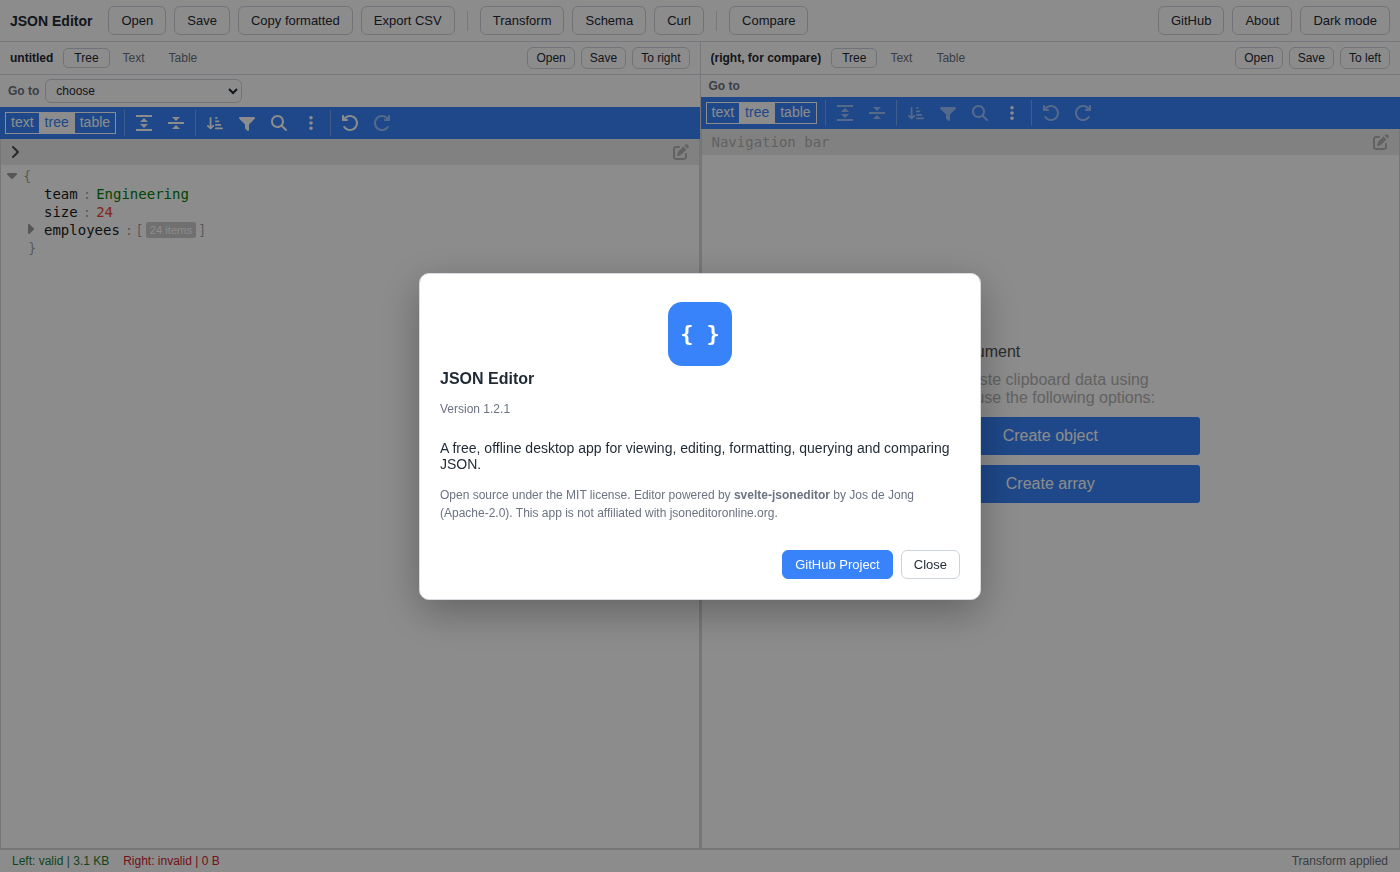
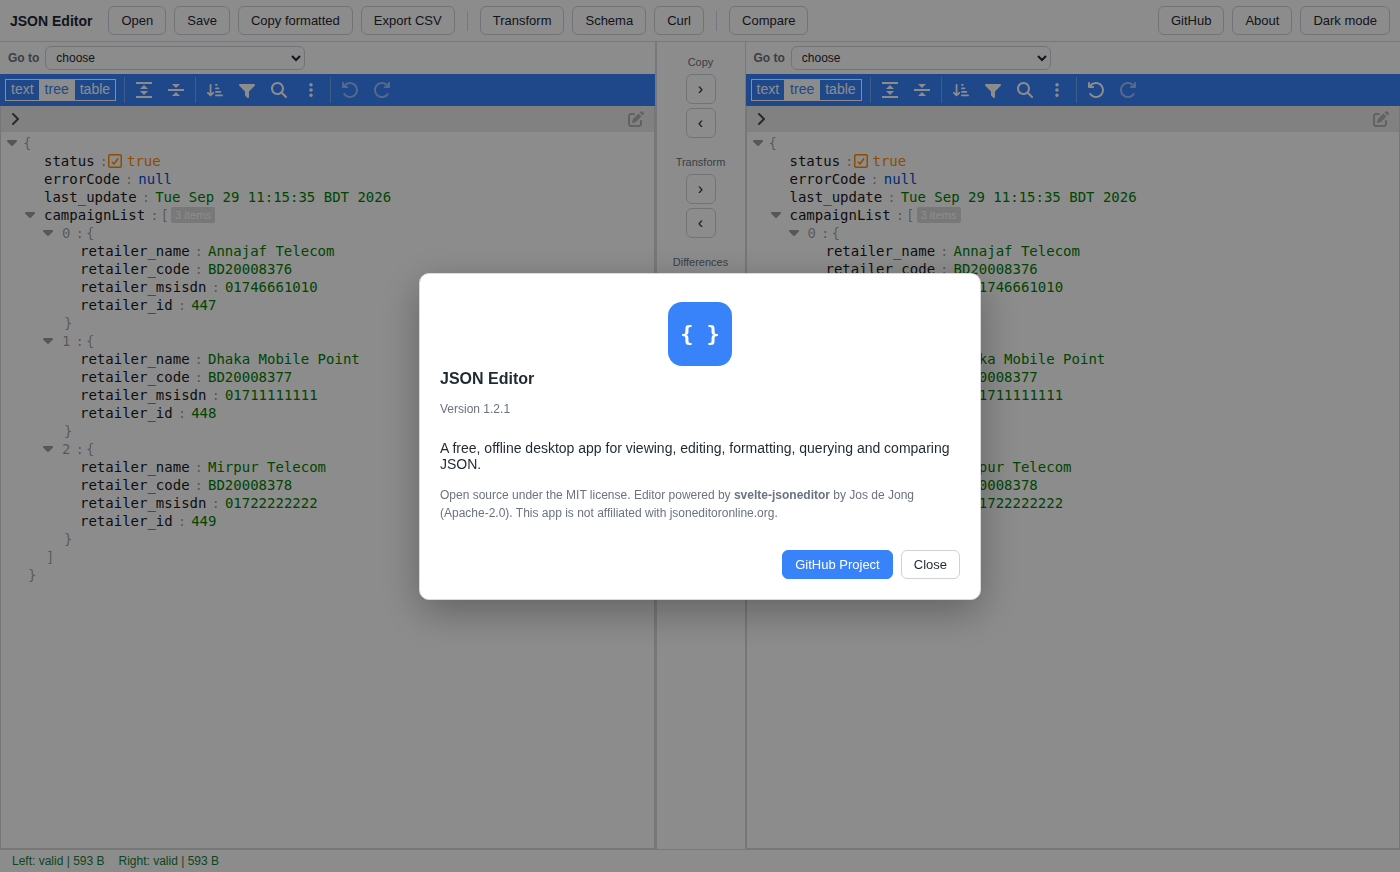
README: reshoot screenshots with new layout + realistic sample data
- Default first-run document is now a realistic API response (retailer
  campaign list) instead of app metadata - better first impression and
  README hero shot
- All three screenshots re-captured in light theme with the new center
  action column visible

diff --git a/src/App.svelte b/src/App.svelte
@@ -39,9 +39,14 @@
 
   function sampleJson () {
     return {
-      name: 'JSON Editor Desktop',
-      offline: true,
-      features: ['tree', 'text', 'table', 'transform', 'compare', 'repair', 'csv', 'schema']
+      status: true,
+      errorCode: null,
+      last_update: 'Tue Sep 29 11:15:35 BDT 2026',
+      campaignList: [
+        { retailer_name: 'Annajaf Telecom', retailer_code: 'BD20008376', retailer_msisdn: '01746661010', retailer_id: '447' },
+        { retailer_name: 'Dhaka Mobile Point', retailer_code: 'BD20008377', retailer_msisdn: '01711111111', retailer_id: '448' },
+        { retailer_name: 'Mirpur Telecom', retailer_code: 'BD20008378', retailer_msisdn: '01722222222', retailer_id: '449' }
+      ]
     }
   }
 
